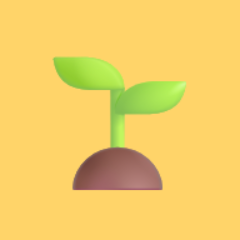
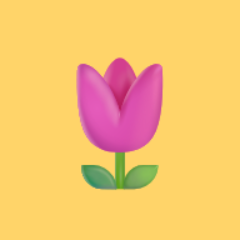
Swap the brand mark from a seedling to a tulip emoji
Updates the logo everywhere it appears as the app's identity: the home
screen and all auth pages (login/signup/forgot/reset password), the
browser favicon, the PWA home-screen icons, and the link-preview image.
Left the seedling in ResultScreen's low-score encouragement message
alone -- that one is tied to the "성장" wording, not the brand mark.

Changed region(s): [[0.2042, 0.2333, 0.7875, 0.8167]]

diff --git a/src/pages/ForgotPassword.tsx b/src/pages/ForgotPassword.tsx
@@ -45,7 +45,7 @@ export default function ForgotPassword() {
   return (
     <div className={styles.page}>
       <header className={styles.header}>
-        <div className={styles.logo}>🌱</div>
+        <div className={styles.logo}>🌷</div>
         <h1 className={styles.title}>비밀번호 찾기</h1>
         <p className={styles.subtitle}>가입한 이메일로 재설정 링크를 보내드려요</p>
       </header>

diff --git a/src/pages/Home.tsx b/src/pages/Home.tsx
@@ -48,7 +48,7 @@ export default function Home() {
   return (
     <div className={styles.page}>
       <header className={styles.hero}>
-        <div className={styles.logo}>🌱</div>
+        <div className={styles.logo}>🌷</div>
         <h1 className={styles.title}>자람토리</h1>
         <p className={styles.subtitle}>생각이 자라고, 마음이 자라는 놀이터</p>
       </header>

diff --git a/src/pages/Signup.tsx b/src/pages/Signup.tsx
@@ -73,7 +73,7 @@ export default function Signup() {
   return (
     <div className={styles.page}>
       <header className={styles.header}>
-        <div className={styles.logo}>🌱</div>
+        <div className={styles.logo}>🌷</div>
         <h1 className={styles.title}>회원가입</h1>
         <p className={styles.subtitle}>자람토리와 함께 시작해요</p>
       </header>

diff --git a/src/pages/Login.tsx b/src/pages/Login.tsx
@@ -26,7 +26,7 @@ export default function Login() {
   return (
     <div className={styles.page}>
       <header className={styles.header}>
-        <div className={styles.logo}>🌱</div>
+        <div className={styles.logo}>🌷</div>
         <h1 className={styles.title}>로그인</h1>
         <p className={styles.subtitle}>자람토리에서 다시 만나요</p>
       </header>

diff --git a/src/pages/ResetPassword.tsx b/src/pages/ResetPassword.tsx
@@ -116,7 +116,7 @@ export default function ResetPassword() {
   return (
     <div className={styles.page}>
       <header className={styles.header}>
-        <div className={styles.logo}>🌱</div>
+        <div className={styles.logo}>🌷</div>
         <h1 className={styles.title}>새 비밀번호 설정</h1>
       </header>
 
